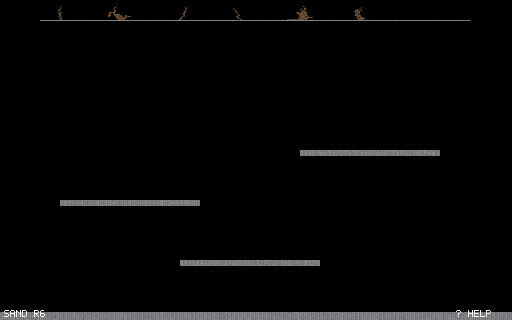
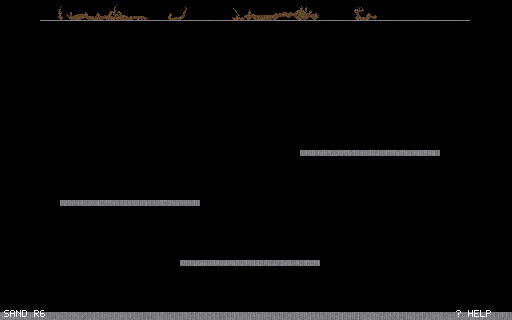
Correct stale sections in the polarity README
The range was still written as 1..30 after the contrast retune, 'what they
show' still described the pre-thicken picture (the lateral branch reads
bright now, because it carries a real share of the canopy), and 'the tree
is a whip' was still listed as a caveat after the fix that stopped it.

Also notes the one place polarity now reaches tree shape: `stem_width`
takes its cross-section axis from `supply_direction`.

diff --git a/docs/screenshots/plant-v2-polarity/README.md b/docs/screenshots/plant-v2-polarity/README.md
@@ -30,7 +30,7 @@ cargo run --release --example filmstrip -- scene=forest start=1200 every=1700 co
 |---|---|
 | `tree-material.png` | ordinary material colour — what a player sees |
 | `tree-celltype.png` | `CellType`: purple `MatureBody`, pink `Leaf`, orange `RootTip` |
-| `tree-vein.png` | **`VeinConductance`** — the max of a cell's four per-face carbon efflux conductances, `CONDUCTANCE_MIN..CONDUCTANCE_MAX` (1..30) |
+| `tree-vein.png` | **`VeinConductance`** — the max of a cell's four per-face carbon efflux conductances, `CONDUCTANCE_MIN..CONDUCTANCE_MAX` (1..10) |
 | `vein-time-series.png` | the same channel at frames 1200 / 2900 / 4600 / 6300 |
 
 `channel=vein` is new in this pass, and `B` cycles to it in the app.
@@ -50,11 +50,15 @@ channel was built and shot, and the sheets below are the gate.
 ## What they show
 
 **A real hierarchy, not a uniform lift.** In `tree-vein.png` the root
-system and lower stem are brightest, brightness falls steadily toward the
-tips, and the lateral branch on the left is almost dark. Nothing in the
-code computes subtree size or identifies a trunk; the conductance field
-carries that information because it is what the flux wrote into it. This is
-Shinozaki's pipe model arrived at from transport rather than asserted.
+ball, the lower trunk and the long lateral branch are saturated, while the
+thin upper twigs are dark. Nothing in the code computes subtree size or
+identifies a trunk; the conductance field carries that information because
+it is what the flux wrote into it. This is Shinozaki's pipe model arrived
+at from transport rather than asserted.
+
+Note the lateral branch reads *bright*, which is not an error: it carries a
+real share of the canopy, so it carries real flux. Brightness is load, not
+importance.
 
 **It develops over time.** `vein-time-series.png` is the load-bearing
 sheet: at frame 1200 the whole plant is dim and roughly uniform, and by
@@ -88,11 +92,15 @@ counts when nothing is wrong", for the second time on this branch.
 
 ## Two things not to misread
 
-**The tree is a whip, and that is not polarity's doing.** It was a whip
-before this pass too, and the trunk-thickening deficit is `thicken()`
-growing sideways along open ground rather than around the stem — recorded
-as known-open in `PLAN.md` and left for the economy pass. Do not read the
-silhouette here as a verdict on Decision 6.
+**Do not read the silhouette as a verdict on Decision 6.** Tree shape at
+this step is set by the economy and by `thicken()`, not by polarity — §10's
+point, and still true. Earlier versions of these sheets showed a bare whip
+for exactly that reason; the `thicken()` fix is what changed it, not
+anything in the transport rule.
+
+The one place polarity *does* now reach shape is `stem_width`, which takes
+its cross-section axis from `supply_direction` — the first consumer of the
+conductance field outside transport.
 
 **Shot on `forest`, not `tree`, deliberately.** Canalization is about
 choosing between *competing* paths. The `tree` scene currently draws a
